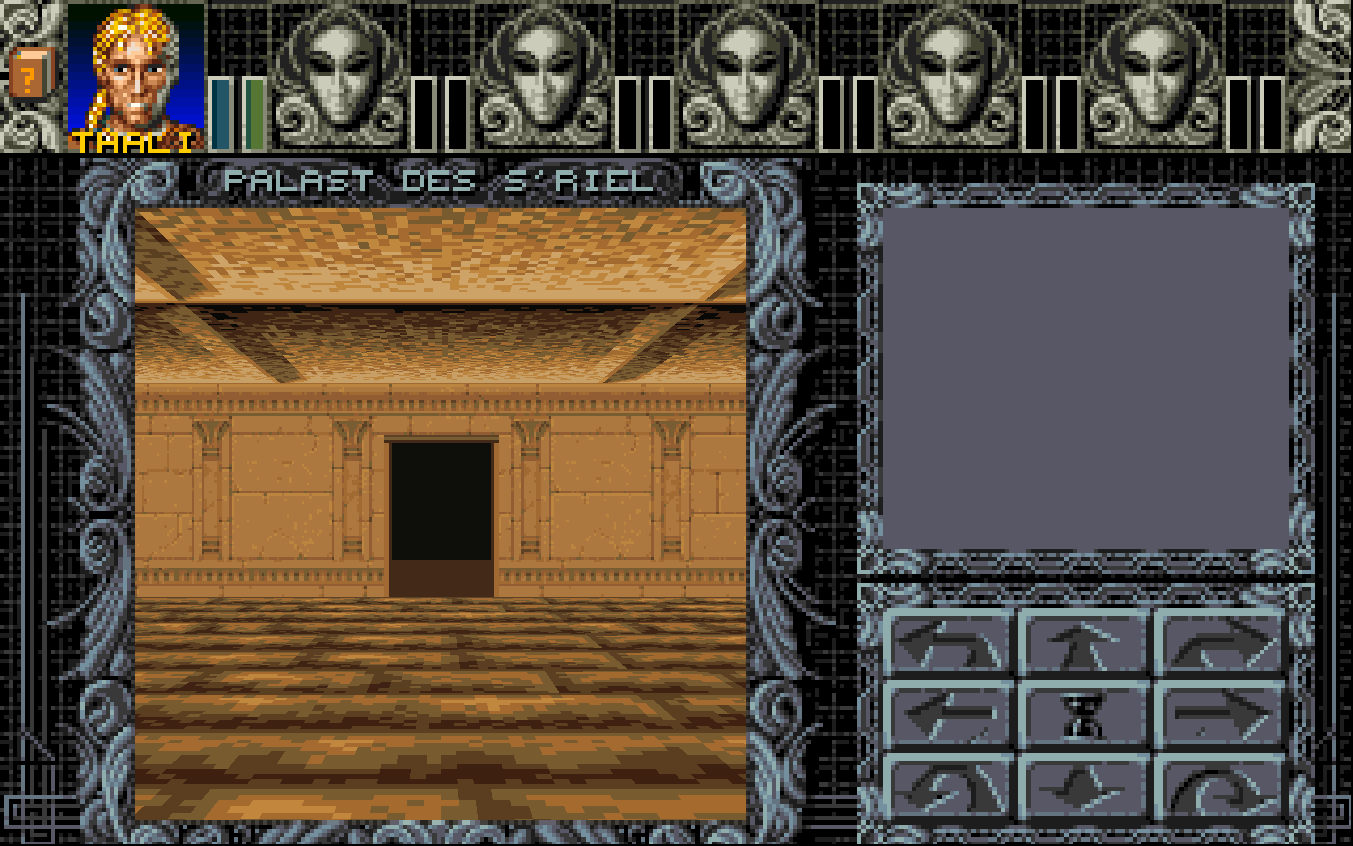
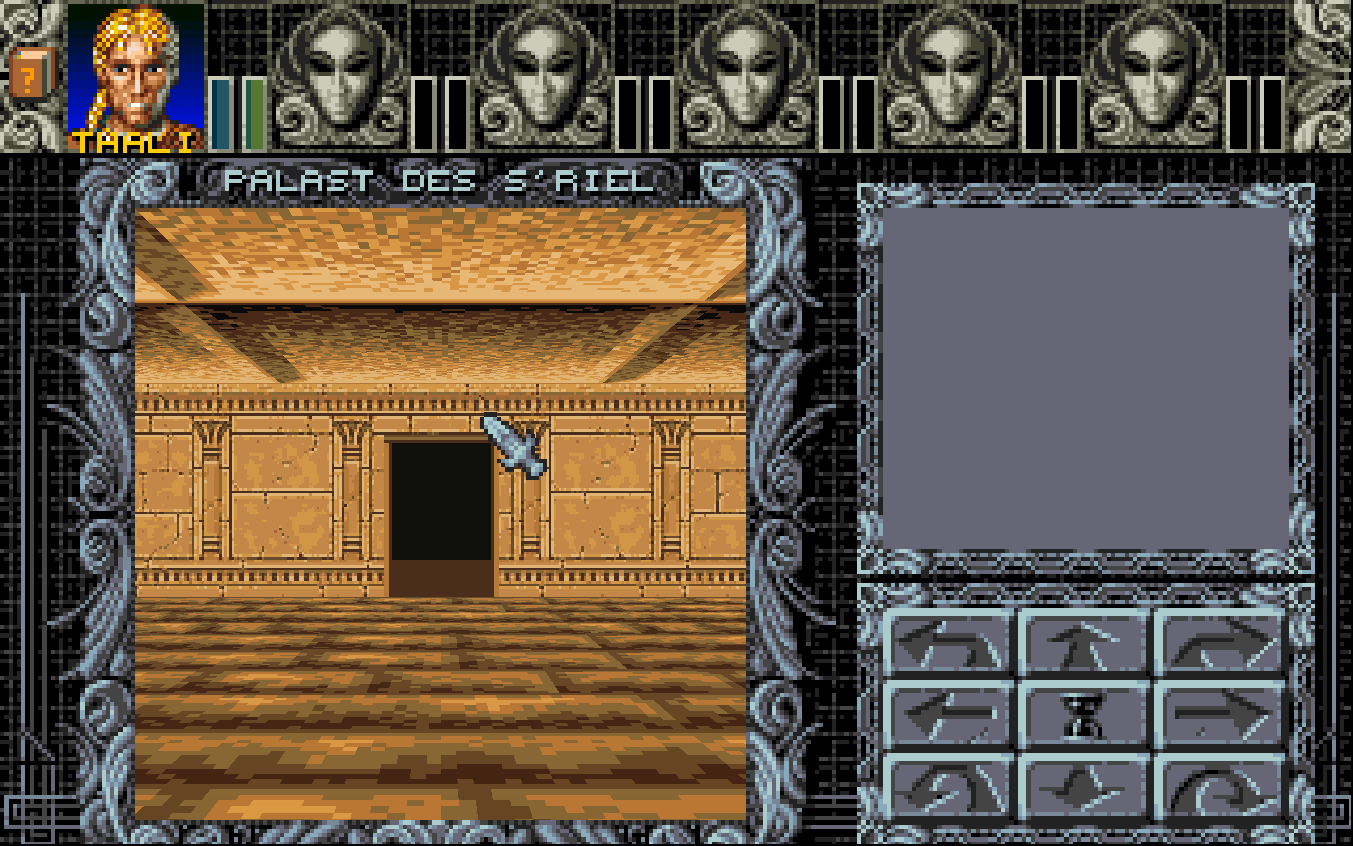
S'Riel prototype: sharper sandstone walls, serpent totem instead of armour, stone head relief and small windows instead of the paintings, loose book at the north wall

diff --git a/assets/Temples/tools/build_prototype.py b/assets/Temples/tools/build_prototype.py
@@ -42,16 +42,16 @@ SANDSTONE_TEXTURES = (193, 194, 195)    # frieze with columns, frieze, gateway
 
 # new walls of labdata 46 (appended to the 30 walls of labdata 5): (texture, flags, automap, colour, overlays)
 SOLID, PASSABLE = 0x40000082, 0x40000102
-S_COLUMNS, S_PLAIN, S_GATE, S_WINDOW, S_CREST, S_PAINT1, S_ROSETTE, S_PAINT2 = range(131, 139)
+S_COLUMNS, S_PLAIN, S_GATE, S_WINDOW, S_CREST, S_HEAD, S_ROSETTE, S_WINDOWS2 = range(131, 139)
 NEW_WALLS = [
     (193, SOLID, 1, 4, []),
     (194, SOLID, 1, 4, []),
     (195, PASSABLE, 10, 11, []),
     (194, SOLID, 1, 4, [(1, 72, 48, 10, 32, 58)]),
     (194, SOLID, 1, 4, [(1, 74, 32, 14, 64, 52)]),
-    (194, SOLID, 1, 4, [(1, 67, 48, 16, 32, 48)]),
+    (194, SOLID, 2, 4, [(1, 39, 32, 14, 64, 45)]),                         # stone head relief
     (194, SOLID, 1, 4, [(1, 71, 32, 8, 64, 64)]),
-    (194, SOLID, 1, 4, [(1, 68, 48, 24, 32, 32)]),
+    (194, SOLID, 1, 4, [(1, 73, 16, 24, 32, 32), (1, 73, 80, 24, 32, 32)]),  # two small windows
 ]
 
 # labdata 5 walls (tile values) and object groups
@@ -60,6 +60,8 @@ W_FRAME_L, W_FRAME_R, W_ROSETTE, W_WINDOW = 107, 108, 110, 111
 W_PAINT1, W_PAINT2, W_PAINT3, W_CREST = 117, 118, 119, 120
 W_SHELF1, W_SHELF2 = 127, 128
 G_COLUMN, G_MOSAIC, G_STATUE, G_CANDLE, G_TABLE, G_CHEST, G_ARMOUR, G_BED, G_GUARD = 9, 5, 14, 18, 20, 21, 22, 24, 27
+G_TOTEM = 40                # new object group: serpent totem from Sansri's temple (labdata 32, texture 28)
+TOTEM_OBJECT = bytes.fromhex('40000080001c0100605001200155')
 
 MAGIC_GUARDS = 68           # monster group
 GUARD_TILE_FLAGS = 0xc0000111
@@ -148,9 +150,9 @@ def sriel():
         (9, 6): S_ROSETTE, (8, 6): S_COLUMNS, (10, 6): S_COLUMNS, (6, 9): S_CREST, (12, 9): S_CREST,
         (8, 12): S_COLUMNS, (10, 12): S_COLUMNS, (7, 12): S_COLUMNS, (11, 12): S_COLUMNS,
         # bedchamber
-        (7, 2): S_WINDOW, (8, 2): S_PAINT2, (9, 2): S_WINDOW, (10, 2): S_PAINT1, (11, 2): S_WINDOW,
+        (7, 2): S_WINDOW, (8, 2): S_WINDOWS2, (9, 2): S_WINDOW, (10, 2): S_WINDOWS2, (11, 2): S_WINDOW,
         # foyer and exit
-        (9, 15): S_GATE, (6, 15): S_WINDOW, (12, 15): S_WINDOW, (2, 14): S_PAINT1, (16, 14): S_PAINT1,
+        (9, 15): S_GATE, (6, 15): S_WINDOW, (12, 15): S_WINDOW, (2, 14): S_HEAD, (16, 14): S_HEAD,
         (8, 15): S_COLUMNS, (10, 15): S_COLUMNS,
         # east wing
         (16, 5): S_WINDOW, (16, 7): S_CREST, (16, 9): S_WINDOW, (16, 11): S_CREST, (13, 8): S_COLUMNS, (13, 10): S_COLUMNS,
@@ -164,8 +166,8 @@ def sriel():
     objects = {
         (7, 7): G_COLUMN, (11, 7): G_COLUMN, (7, 11): G_COLUMN, (11, 11): G_COLUMN, (9, 9): G_MOSAIC,
         (7, 3): G_CHEST, (9, 3): G_BED, (11, 3): G_TABLE,
-        (3, 4): G_CANDLE, (3, 9): G_TABLE,
-        (15, 4): G_CHEST, (15, 7): G_STATUE, (15, 10): G_ARMOUR,
+        (3, 9): G_TABLE,
+        (15, 4): G_CHEST, (15, 7): G_STATUE, (15, 10): G_TOTEM,
         (3, 14): G_CANDLE, (15, 14): G_CANDLE,
     }
     for (x, y), g in objects.items():
@@ -179,7 +181,7 @@ def sriel():
     p.chain(0, [text(3)], (2, 8))
     p.chain(0, [text(4)], (2, 10))
     p.chain(0, [text(5)], (2, 12))
-    lever = p.chain(9, [], (2, 5))                                                     # 7 loose book
+    lever = p.chain(9, [], (2, 4))                                                     # 7 loose book (shelf at the north wall)
     p.chains[-1] = (9, [ev(0x0d, 0x0e, 1, 0, 0, 0, 0, 0, 0xff, 0xff), text(6, 0),
                         word(ev(0x0a, secret[0], secret[1]), 6, 0), word(ev(0x0e, 0x01, 1), 6, p.event_bit(lever))])
     p.chain(0, [text(7)], (11, 3))                                                     # 8 diary
@@ -267,7 +269,11 @@ def build_labdata(raw5):
     lab = ld.parse(raw5)
     lab.header[6] = CEILING_TEX
     lab.header[7] = FLOOR_TEX
-    assert len(lab.walls) == 30
+    assert len(lab.walls) == 30 and len(lab.object_groups) == G_TOTEM - 1
+    lab.objects.append(bytearray(TOTEM_OBJECT))
+    group = bytearray(66)
+    group[2:10] = struct.pack('>HHHH', 255, 255, 0, len(lab.objects))
+    lab.object_groups.append(group)
     for tex, flags, automap, colour, overlays in NEW_WALLS:
         header = bytearray(struct.pack('>IBBBB', flags, tex, automap, colour, len(overlays)))
         lab.walls.append((header, [bytearray(o) for o in overlays]))

diff --git a/assets/Temples/tools/make_sandstone_walls.py b/assets/Temples/tools/make_sandstone_walls.py
@@ -4,6 +4,8 @@
 - 194 frieze wall without columns (middle section repeated, separated by a joint)
 - 195 gateway: dark passage between the columns, through the lower frieze down to the floor
 
+Usage: python make_sandstone_walls.py [sharpen contrast [out dir [threshold]]]
+
 Writes textures/generated/sandstone_<n>.tex (Texture4Bit 128x80), preview PNGs and wuestentempel.pal
 (palette 60: stone colours 1-6/12/13 matched to the picture, the rest like palette 6).
 """
@@ -22,8 +24,40 @@ OUT = os.path.join(HERE, '..', 'textures', 'generated')
 STONE = {1: 'eb7', 2: 'd94', 3: 'b73', 4: '863', 5: '642', 6: '421', 12: 'c84', 13: 'a63'}
 
 WALL_TOP, WALL_BOTTOM = 11, 68          # rows between the friezes
+SHARPEN, CONTRAST, THRESHOLD = 2.5, 1.1, 6    # see sharpen()
 MID = (36, 91)                          # stone section between the columns
 JOINT_X = 35                            # column frame edge, used as a vertical joint
+
+
+def sharpen(img, amount=1.5, contrast=1.15, threshold=THRESHOLD):
+    """Unsharp mask (3x3) plus a contrast stretch around the mean brightness, so joints and stone edges
+    survive the downscaling. Only details stronger than the threshold (brightness) are amplified; everything
+    else is smoothed, so the speckles on the stone surfaces don't turn into noise."""
+    h, w = len(img), len(img[0])
+    out = []
+    mean = [sum(p[k] for row in img for p in row) / (w * h) for k in range(3)]
+    for y in range(h):
+        row = []
+        for x in range(w):
+            acc = [0.0, 0.0, 0.0]
+            n = 0
+            for dy in (-1, 0, 1):
+                for dx in (-1, 0, 1):
+                    yy, xx = min(h - 1, max(0, y + dy)), min(w - 1, max(0, x + dx))
+                    for k in range(3):
+                        acc[k] += img[yy][xx][k]
+                    n += 1
+            p = []
+            detail = [img[y][x][k] - acc[k] / n for k in range(3)]
+            strong = abs(0.3 * detail[0] + 0.59 * detail[1] + 0.11 * detail[2]) >= threshold
+            for k in range(3):
+                # edges are amplified, surfaces smoothed (3x3 average) so they quantize to calm areas
+                v = img[y][x][k] + amount * detail[k] if strong else acc[k] / n
+                v = mean[k] + (v - mean[k]) * contrast
+                p.append(max(0.0, min(255.0, v)))
+            row.append(tuple(p))
+        out.append(row)
+    return out
 
 
 def palette():
@@ -65,16 +99,20 @@ def gateway(cols):
 
 
 def main():
-    os.makedirs(OUT, exist_ok=True)
+    out = sys.argv[3] if len(sys.argv) > 3 else OUT
+    os.makedirs(out, exist_ok=True)
     pal = palette()
     w, h, src = tx.read_png(SRC)
-    idx = tx.quantize(tx.downscale(src, 128, 80), pal, [1, 2, 3, 4, 5, 6, 12, 13])
+    amount = float(sys.argv[1]) if len(sys.argv) > 1 else SHARPEN
+    contrast = float(sys.argv[2]) if len(sys.argv) > 2 else CONTRAST
+    threshold = float(sys.argv[4]) if len(sys.argv) > 4 else THRESHOLD
+    idx = tx.quantize(sharpen(tx.downscale(src, 128, 80), amount, contrast, threshold), pal, [1, 2, 3, 4, 5, 6, 12, 13])
     walls = {193: idx, 194: plain(idx), 195: gateway(idx)}
     for n, rows in walls.items():
-        open(os.path.join(OUT, f'sandstone_{n}.tex'), 'wb').write(tx.encode_texture(rows, 128))
-        tx.write_png(os.path.join(OUT, f'sandstone_{n}_x4.png'), rows, pal, 4)
-    open(os.path.join(OUT, 'wuestentempel.pal'), 'wb').write(pal_bytes(pal))
-    print('written', ', '.join(str(n) for n in walls))
+        open(os.path.join(out, f'sandstone_{n}.tex'), 'wb').write(tx.encode_texture(rows, 128))
+        tx.write_png(os.path.join(out, f'sandstone_{n}_x4.png'), rows, pal, 4)
+    open(os.path.join(out, 'wuestentempel.pal'), 'wb').write(pal_bytes(pal))
+    print('written', ', '.join(str(n) for n in walls), 'sharpen', amount, 'contrast', contrast)
 
 
 if __name__ == '__main__':

diff --git a/assets/Temples/prototypes/README.md b/assets/Temples/prototypes/README.md
@@ -18,6 +18,7 @@ Gebaut wird mit `python assets/Temples/tools/build_prototype.py` (schreibt in `g
 ![Halle](487_remake_hall.png)
 ![Foyer](487_remake_foyer.png)
 ![Ausgang](487_remake_gate.png)
+![Relief im Foyer](487_remake_relief.png)
 ![Bibliothek](487_remake_library.png)
 ![Schlafgemach](487_remake_bedchamber.png)
 ![Ostflügel](487_remake_eastwing.png)
@@ -31,9 +32,9 @@ Gebaut wird mit `python assets/Temples/tools/build_prototype.py` (schreibt in `g
 - **Grundriss** (17×17): Empfangshalle in der Mitte, ringsum Bibliothek (West), Ostflügel, Foyer (Süd) und das Schlafgemach (Nord).
 - **Ankunft:** wie im Original in der Halle (9,10). S'Arin erscheint, die zwei magischen Wachen greifen an.
 - **Bibliothek:** Bücherregale auf beiden Seiten. Vier Regale lassen sich mit dem Auge lesen (Kette 3–6), mit Hinweisen auf S'Arin, S'Endar, S'Trog, S'Kat und S'Lorwin. Das letzte Regal verrät das lose Buch.
-- **Geheimgang:** Das lose Buch an der Nordwand der Bibliothek (2,5) wird mit der Hand gezogen. Dann öffnet sich die Wand (6,4) zum Schlafgemach.
+- **Geheimgang:** Das lose Buch im Regal direkt an der Nordwand der Bibliothek (2,4) wird mit der Hand gezogen (von (3,4) aus nach Westen). Dann öffnet sich die Wand (6,4) zum Schlafgemach.
 - **Schlafgemach:** Bett, Tagebuch auf dem Tisch (Auge) und Truhe 116.
-- **Ostflügel:** Statue, Rüstung und Truhe 117. Die Truhen sind dieselben wie in Map 444, nur für den Test.
+- **Ostflügel:** Statue, Schlangentotem (aus Sansris Tempel, Objektgruppe 40) und Truhe 117. Die Truhen sind dieselben wie in Map 444, nur für den Test.
 - **Ausgang:** Tür im Foyer (9,15) zur Weltkarte 520 (37,41), wie in 444.
 
 | Kette | Feld | Inhalt |
@@ -41,6 +42,6 @@ Gebaut wird mit `python assets/Temples/tools/build_prototype.py` (schreibt in `g
 | 1 | (9,15) | Ausgang nach Morag |
 | 2 | (9,10) | Ankunftstext (Text 1 aus 444), danach deaktiviert |
 | 3–6 | (2,6), (2,8), (2,10), (2,12) | Lesbare Regale (Texte 2–5) |
-| 7 | (2,5) | Loses Buch: Hand → Text 6, Wand (6,4) öffnet sich, Kette deaktiviert |
+| 7 | (2,4) | Loses Buch: Hand → Text 6, Wand (6,4) öffnet sich, Kette deaktiviert |
 | 8 | (11,3) | Tagebuch (Text 7) |
 | 9, 10 | (7,3), (15,4) | Truhen 116 und 117 |

diff --git a/assets/Temples/textures/README.md b/assets/Temples/textures/README.md
@@ -6,5 +6,7 @@
 | `generated/sandstone_193..195.tex` | Wände 193–195 als Texture4Bit (128×80), daneben die Vorschauen `_x4.png` |
 | `generated/wuestentempel.pal` | Palette 59 „Wüstentempel“ (32 Farben). Steinfarben 1–6/12/13 passend zur Vorlage, der Rest wie Palette 6 |
 
+Beim Verkleinern werden Kanten (Fugen, Steinkanten) verstärkt und Flächen geglättet (`sharpen()`, Standard: Stärke 2,5, Kontrast 1,1, Schwelle 6), sonst wirkt die Wand flach.
+
 Neu erzeugen: `python assets/Temples/tools/make_sandstone_walls.py`, danach `build_prototype.py`.
 Für weitere Vorlagen: `tools/convert_texture.py` (Verkleinern mit Flächenmittel, Palette ableiten oder vorgeben, optional Dithering).
